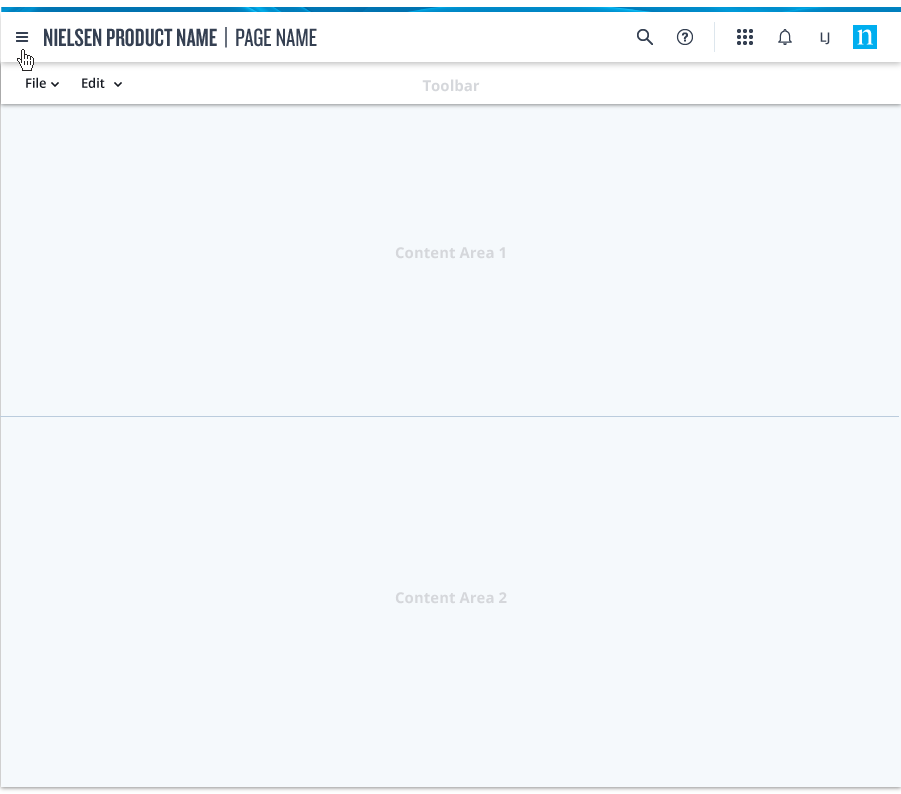
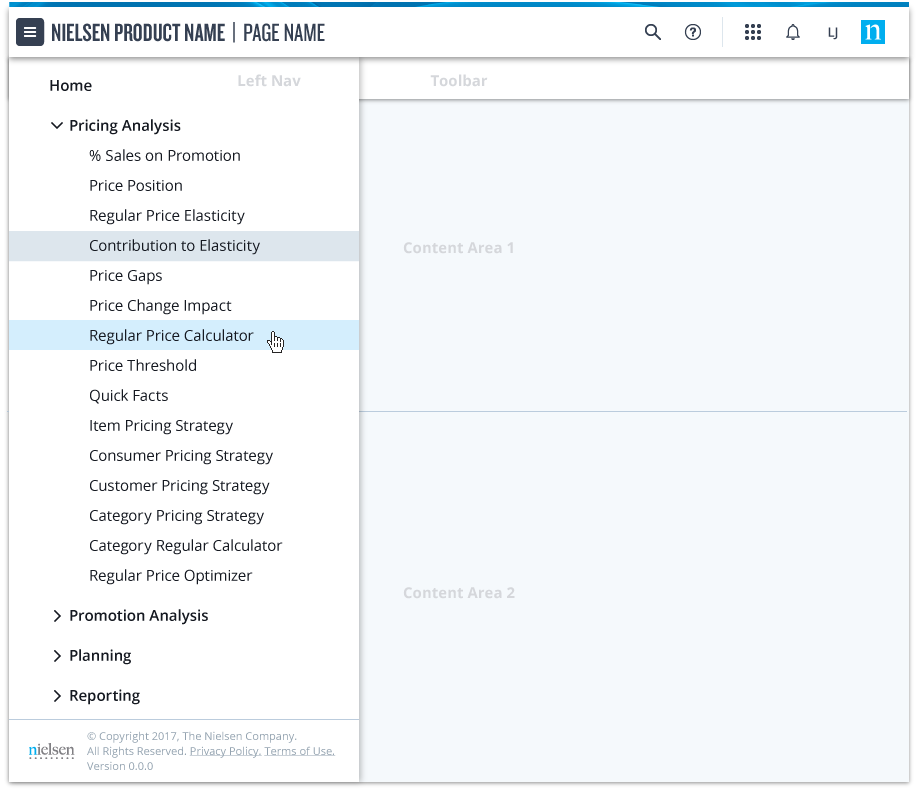
Revise App Structure Pattern.

Changed region(s): [[0.0, 0.0, 1.0, 1.0], [0.4351, 0.3034, 0.5594, 0.3338], [0.4351, 0.7282, 0.4972, 0.7585]]

diff --git a/p_app_structure.php b/p_app_structure.php
@@ -22,57 +22,37 @@
 				<section class="full">
 					<div class="desc_pattern">
 						<p>
-							App structure has 3 sections: UI Areas, Primary App Structure, and Secondary App Structure. These notions have direction impacts on App Bar and Sidenav.
+							Nielsen uses two App Structures in its products, Primary App Structure and a Secondary App Structure.
+						</p>
+						<p>
+							For Applications that are more compact and have content based navigation, we recommend using the Primary App Structure.
+						</p>
+						<p>
+							For deeper apps that have several analytic areas with little overlap between these areas, we recommend the Secondary App Structure.
 						</p>
 					</div>
 				</section>
 				<!-- Section 1 -->
 				<section class="full">
-					<h2>UI Areas (Schematic)</h2>
-					<section class="full">
-						<div class="desc_pattern">
-							<p>
-								Both Primary and Secondary App Structure have the same UI Areas:
-							</p>
-							<ul>
-								<li>App Bar</li>
-								<li>Toolbar</li>
-								<li>Sidenav Right</li>
-								<li>Content</li>
-								<li>Copyright</li>
-							</ul>
-							<p>
-								Nielsen’s Secondary App Structure adds Sidenav Left.
-							</p>
-						</div>
-					</section>
-					<!-- -->
-					<section class="full">
-						<h4>Primary App Structure</h4>
-						<img src="img/guide/p_app-structure_01.png" alt="UI Areas: Primary App Structure">
-					</section>
-					<!-- -->
-					<section class="full">
-						<h4>Secondary App Structure</h4>
-						<img src="img/guide/p_app-structure_02.png" alt="UI Areas: Secondary App Structure">
-					</section>
-				</section>
-
-				<!-- Section 2 -->
-				<section class="full">
 					<h2>Primary App Structure</h2>
-					<!-- -->
 					<section class="full">
+						<h4>Schematic</h4>
+						<img src="img/guide/p_app-structure_01.png" alt="Primary App Structure Schematic">
 						<div class="desc_pattern">
-							<p>
-								As mentioned in UI Areas, Primary App Structure has only a Sidenav Right. The Primary App Structure relies on contextual navigation within the content area.
-							</p>
-							<p>
-								Use Primary App Structure in cases where:
+							<p>Use Primary App Structure in products where:
 								<ul>
 									<li>The app is straightforward and well focused</li>
-									<li>There 3 or fewer levels of navigation</li>
+									<li>There three or fewer levels of navigation</li>
 									<li>The toolbar provides the majority of the functionality</li>
+								</ul>
+							</p>
+							<p>Primary App Structure incorporates:
+								<ul>
+									<li>App Bar with 3-level Navigation</li>
+									<li>Toolbar</li>
+									<li>Sidenav Right</li>
+									<li>Page content that incorporates contextual navigation</li>
+									<li>Copyright</li>
 								</ul>
 							</p>
 						</div>
@@ -80,31 +60,29 @@
 					<!-- -->
 					<section class="full">
 						<h4>Primary App Structure: Landing Page</h4>
-						<img src="img/guide/p_app-structure_03.png" alt="Primary App Structure: Landing Page">
+						<img src="img/guide/p_app-structure_02.png" alt="Primary App Structure: Landing Page">
 					</section>
 					<!-- -->
 					<section class="full">
 						<h4>Primary App Structure: Level 2</h4>
-						<img src="img/guide/p_app-structure_04.png" alt="Primary App Structure: Level 2">
+						<img src="img/guide/p_app-structure_03.png" alt="Primary App Structure: Level 2">
 					</section>
 					<!-- -->
 					<section class="full">
 						<h4>Primary App Structure: Level 3</h4>
-						<img src="img/guide/p_app-structure_05.png" alt="Primary App Structure: Level 3">
+						<img src="img/guide/p_app-structure_04.png" alt="Primary App Structure: Level 3">
 					</section>
 				</section>
 
-				<!-- Section 3 -->
+				<!-- Section 2 -->
 				<section class="full">
 					<h2>Secondary App Structure</h2>
 					<!-- -->
 					<section class="full">
+						<h4>Schematic</h4>
+						<img src="img/guide/p_app-structure_05.png" alt="Secondary App Structure Schematic">
 						<div class="desc_pattern">
-							<p>
-								The Secondary App Structure has both Sidenav Right and Sidenav Left. The Secondary App Structure is reserved for large apps in which there are several types of analysis / actions that may be loosely associated
-							</p>
-							<p>
-								Use Secondary App Structure in cases where:
+							<p>Use this app structure when:
 								<ul>
 									<li>The app has several analysis areas that have minimal overlap</li>
 									<li>There are more than 3 levels of navigation</li>
@@ -115,10 +93,16 @@
 					</section>
 					<!-- -->
 					<section class="full">
-						
-						<img src="img/guide/p_app-structure_06.png" alt="Secondary App Structure">
+						<h4>Secondary App Structure: Landing Page</h4>
+						<div class="desc_pattern">
+							<p>
+								The Secondary App Structure has both Sidenav Right and Sidenav Left (shown above.) Secondary App Structure is reserved for large apps in which there are several types of analysis / actions that may be loosely associated.
+							</p>
+						</div>
+						<img src="img/guide/p_app-structure_06.png" alt="Secondary App Structure: Landing Page">
 					</section>
-				</section>
+
+			</section>
 			</div>
 		</article>
 	</main>
